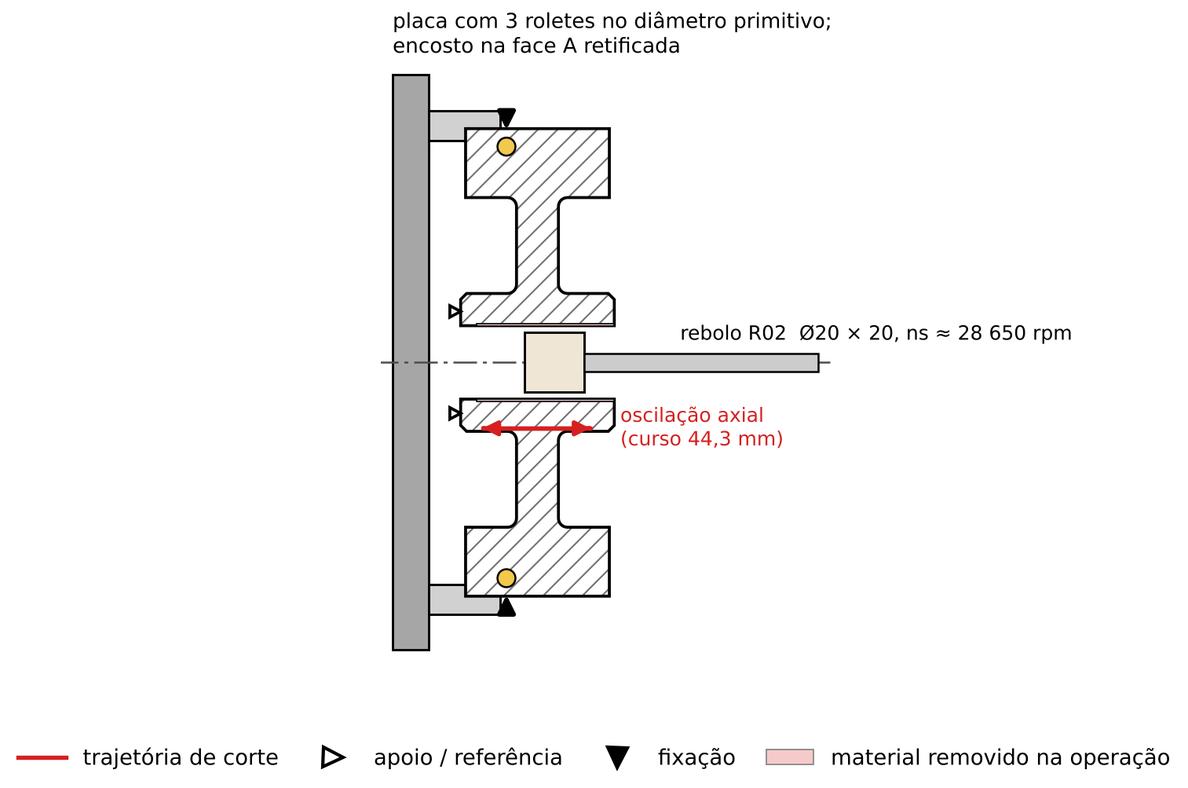
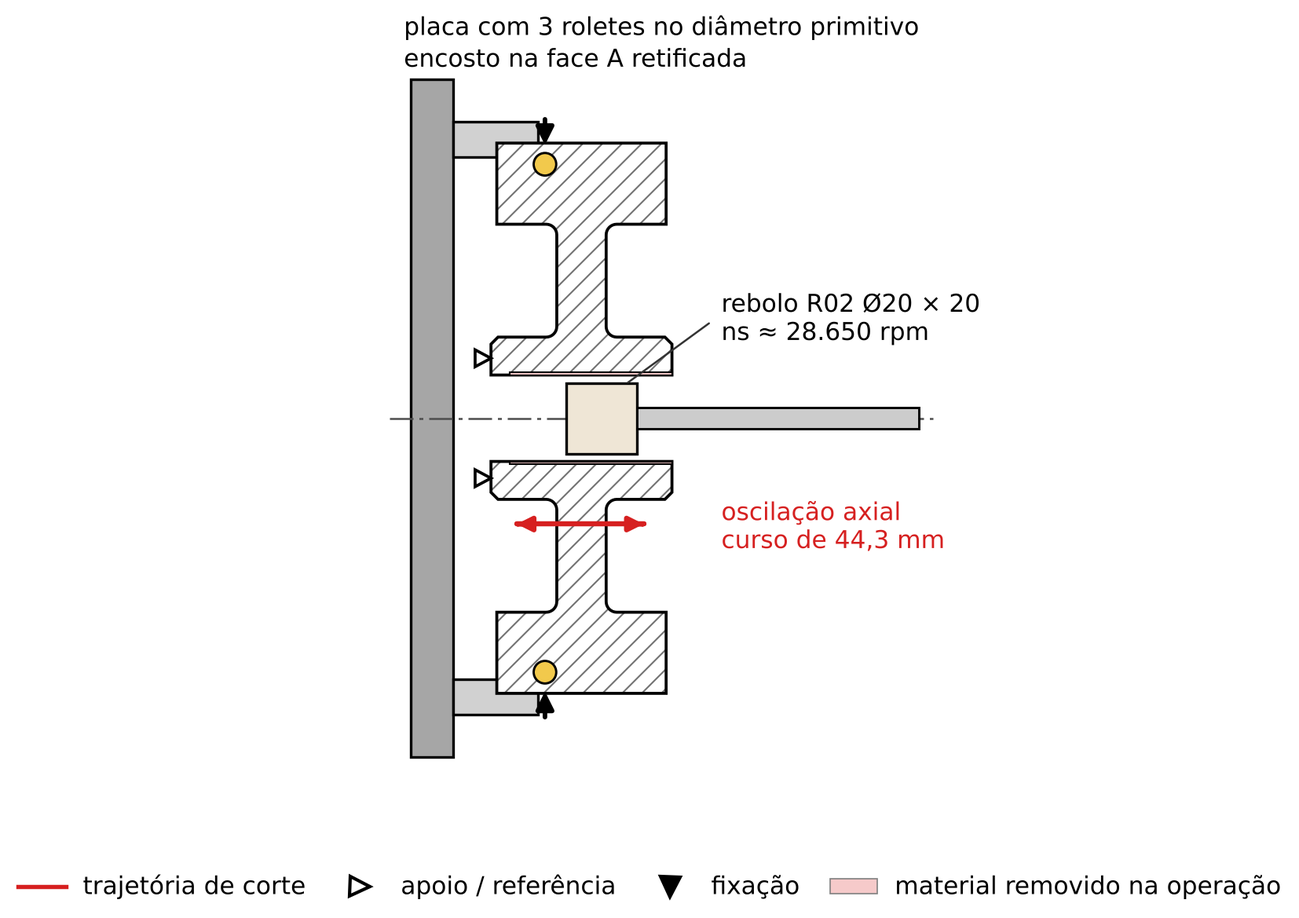
Revisão 3: operações mais sucintas, figuras e margens
- Capítulo 3: descrição das operações reescrita de forma direta; retirada
  a seção de justificativa da ordem; comparação com a fresa caracol
  reescrita, com a origem dos tempos explicada.
- Capítulo 4: critérios e parágrafo da T01 mais curtos.
- Capítulo 5: profundidade do degrau do aro explicada junto dos parâmetros.
- Figuras 2.2, 3.3, 3.5 e 3.7 refeitas; margens simétricas de 2,5 cm.
- Mantidas as edições feitas pelo grupo no Overleaf.

Claude-Session: https://claude.ai/code/session_016G8wJRcTw44iU676wauUBy

Changed region(s): [[0.3106, 0.0, 0.9009, 0.8345], [0.3106, 0.9272, 0.9941, 0.989], [0.0, 0.9581, 0.2796, 0.989]]

diff --git a/capitulos/03_plano_de_trabalho.tex b/capitulos/03_plano_de_trabalho.tex
@@ -2,7 +2,7 @@
 
 \section{Sequência de operações}
 
-O Quadro~\ref{quad:seq} resume a sequência de fabricação da peça. O torneamento, em duas fixações (operações 20 e 30), gera todas as superfícies de revolução, inclusive o furo, que é furado e mandrilado no próprio torno. Depois vêm o fresamento dos dentes, o dos rasgos em arco e o brochamento do rasgo de chaveta, todos com o material ainda recozido. Por fim, a peça é rebarbada, vai para o tratamento térmico e volta para a retificação das faces do cubo e do furo. São cinco processos de usinagem: torneamento, furação, fresamento, brochamento e retificação.
+O Quadro~\ref{quad:seq} resume a sequência. O torneamento, em duas fixações (operações 20 e 30), gera todas as superfícies de revolução, inclusive o furo. Em seguida vêm o fresamento dos dentes, o fresamento dos rasgos em arco e o brochamento do rasgo de chaveta, ainda com o material recozido. Depois da rebarbação e do tratamento térmico, as faces do cubo e o furo são retificados.
 
 \begin{quadro}[H]
 \centering
@@ -26,59 +26,37 @@ O Quadro~\ref{quad:seq} resume a sequência de fabricação da peça. O torneame
 \fonte{Elaborado pelo grupo.}
 \end{quadro}
 
-Para os dentes haviam duas alternativas: fresar com fresa de disco de perfil evolvente em uma fresadora universal ou gerar com fresa caracol em uma fresadora de engrenagens. Ficamos com a fresa de disco, que usa uma máquina comum em ferramentarias e serve bem a lotes pequenos. A fresa caracol, comparada na Seção~\ref{sec:caracol}, seria a escolha para produções com maior volume.
+Três pontos definiram essa ordem. O furo e a face A do cubo são usinados na mesma fixação e servem de referência para todas as operações seguintes. Todo o corte com ferramenta de geometria definida acontece antes do tratamento térmico, já que as ferramentas de aço rápido e de metal duro escolhidas não cortam o aço temperado. E o furo é retificado por último, com a peça centrada pelos dentes, para que fique concêntrico ao dentado.
 
-\section{Justificativa da ordem das operações}
+Para os dentes, a alternativa à fresa de disco seria a fresa caracol, comparada na Seção~\ref{sec:caracol}.
 
-O Quadro~\ref{quad:ordem} explica o motivo da ordem de cada operação selecionada. Dentro do torneamento, todo o desbaste (faceamento, torneamento externo, furação e rebaixo) vem antes do acabamento. Os esforços e o calor do desbaste, então, não deformam nem marcam superfícies já acabadas, e a peça não escorrega nas castanhas depois que as referências foram geradas. O mandrilamento fecha a operação 20: furo e face A do cubo saem da mesma fixação, sem soltar a peça.
+\section{Fixação e croquis}
 
-\begin{quadro}[H]
-\centering
-\caption{Justificativa da posição de cada operação na sequência}\label{quad:ordem}
-{\small\renewcommand{\arraystretch}{1.2}
-\begin{tabular}{|c|>{\raggedright\arraybackslash}p{13.3cm}|}
-\hline
-\rowcolor{cinza} \textbf{Op.} & \textbf{Por que nesta posição} \\ \hline
-20 & Gera as referências do processo (face A do cubo e furo) na mesma fixação. \\ \hline
-30 & Só pode ser feita depois da 20, porque usa o Ø156 já torneado para centrar a peça e a face A para encostá-la. Garante o paralelismo entre as faces do cubo. \\ \hline
-40 & Precisa do furo (mandril) e da face A (encosto). Fica antes do tratamento térmico, pois a fresa de aço rápido não corta o aço temperado. \\ \hline
-50 & Depois da 40, para que a alma ainda esteja inteira, e portanto mais rígida, durante o fresamento dos dentes. Precisa vir antes da 60, porque um dos rasgos orienta a peça no brochamento. \\ \hline
-60 & Depende do furo (bucha-guia) e de um rasgo em arco (orientação). A brocha de aço rápido também exige o material recozido. \\ \hline
-70 & Remove as rebarbas de todas as operações de corte e confere a espessura dos dentes enquanto a peça ainda pode ser corrigida. \\ \hline
-80 & Depois de todo o corte com ferramenta de geometria definida. \\ \hline
-90 & Retifica primeiro as faces do cubo, apoiando uma na outra, para criar uma face A retificada que servirá de encosto na operação 100. \\ \hline
-100 & Por último, com a peça centrada pelo diâmetro primitivo. Corrige a distorção do tratamento térmico e deixa o furo concêntrico ao dentado e perpendicular à face A. \\ \hline
-\end{tabular}}
-\fonte{Elaborado pelo grupo.}
-\end{quadro}
+Na operação 30 a peça é presa pelo Ø156 já torneado, em castanhas moles, com a face A apoiada em um anel de encosto. Nas operações 40, 50 e 60 ela é localizada pelo furo, com mandril ou pino, e pela face A. Na retificação, cada face do cubo é retificada apoiada na outra, e o furo, com a peça centrada pelo diâmetro primitivo.
 
-\section{Referências e fixação}
-
-A face A do cubo e o furo, usinados juntos na operação 20, são as referências de todo o processo. Na operação 30 a peça é presa pelo Ø156 já torneado, em castanhas moles usinadas no próprio torno, e encosta a face A em um anel. Com isso as duas faces do cubo ficam paralelas. Nas operações 40, 50 e 60 a peça é localizada pelo furo (mandril ou pino) e pela face A. Depois do tratamento térmico, cada face do cubo é retificada apoiada na outra. Por último o furo é retificado com a peça centrada pelo diâmetro primitivo, em uma placa com roletes entre os dentes. É assim que o furo final fica concêntrico ao dentado, o requisito funcional mais importante da engrenagem.
-
-Nos croquis, a peça aparece em corte (meia-seção no torneamento), com a seção hachurada e o material removido na operação em vermelho claro. A trajetória de corte está em vermelho contínuo e os movimentos rápidos em vermelho tracejado. Os triângulos marcam apoios e referências, e as setas pretas, a força de fixação. As trajetórias são esquemáticas e foram afastadas um pouco das superfícies para ficarem legíveis.
+Nos croquis, a peça aparece em corte, com o material removido na operação em vermelho claro. A trajetória de corte está em vermelho contínuo e os movimentos rápidos em vermelho tracejado; os triângulos indicam apoios e referências, e as setas pretas, a fixação.
 
 \section{Descrição das operações}
 
 \subsection*{Operação 10 – Inspeção do bruto}
 \addcontentsline{toc}{subsection}{Operação 10 – Inspeção do bruto}
 
-Na bancada, conferem-se o diâmetro (Ø160), o comprimento (58 mm) e a dureza (170 a 200 HB) da barra serrada, com paquímetro e durômetro.
+Conferência do diâmetro (Ø160), do comprimento (58 mm) e da dureza (170 a 200 HB) da barra serrada, na bancada, com paquímetro e durômetro.
 
 \subsection*{Operação 20 – Torneamento do lado A}
 \addcontentsline{toc}{subsection}{Operação 20 – Torneamento do lado A}
 
-A peça é presa pelo diâmetro bruto em placa de três castanhas duras, com 15 mm de peça, no torno CNC ROMI Centur 35D (Figura~\ref{fig:op20}). Todas as etapas usam emulsão de óleo solúvel:
+Torno CNC ROMI Centur 35D, peça presa pelo Ø160 bruto em placa de três castanhas duras, com 15 mm de pega, e emulsão como fluido de corte (Figura~\ref{fig:op20}).
 
 \begin{enumerate}[label=20.\arabic*]
-\item Faceamento de desbaste da face A em dois passes de 1,425 mm, até o centro (T01).
-\item Torneamento externo de desbaste de Ø160 para Ø157, ao longo de 36 mm a partir da face (T01).
-\item Desbaste do degrau do aro em dois passes de 0,825 mm, de Ø157 até Ø47, que formam o ressalto do cubo (T01).
-\item Furação passante com broca de Ø23 mm (T03).
-\item Desbaste do rebaixo da alma, entre Ø46 e Ø110 e com 17 mm de profundidade a partir da face do aro, com ferramenta de canal frontal: oito mergulhos axiais, do diâmetro maior para o menor, com passo radial de 3,77 mm. Os mergulhos deixam 0,3 mm nas paredes e no fundo. Os dois junto às paredes param 3 mm antes do fundo, para não invadir os raios de 3 mm (T05).
-\item Acabamento do contorno externo: Ø156, face do aro, Ø46 com o chanfro de 2 mm e face do cubo, deixando 0,15 mm na face do cubo para a retificação (T02).
-\item Passe de contorno do rebaixo: parede do Ø110, raio R3, fundo, raio R3 e parede do Ø46 (T05).
-\item Mandrilamento do furo para Ø24,5 mm, que deixa 0,25 mm no raio para a retificação interna, e chanfro de 0,5 $\times$ 45° (T04).
+\item Facear a face A em dois passes de 1,425 mm, até o centro (T01).
+\item Tornear de Ø160 para Ø157 em 36 mm de comprimento (T01).
+\item Desbastar o degrau do aro de Ø157 até Ø47, com 1,65 mm de profundidade em dois passes (T01).
+\item Furar Ø23 passante (T03).
+\item Desbastar o rebaixo da alma (Ø46 a Ø110, 17 mm de profundidade) com oito mergulhos axiais, deixando 0,3 mm nas paredes e no fundo (T05).
+\item Acabar o Ø156, a face do aro, o Ø46 com o chanfro de 2 mm e a face do cubo, deixando 0,15 mm na face do cubo para a retificação (T02).
+\item Acabar o contorno do rebaixo: paredes, raios R3 e fundo (T05).
+\item Mandrilar o furo para Ø24,5 e chanfrar 0,5 $\times$ 45° (T04).
 \end{enumerate}
 
 \begin{figure}[H]
@@ -91,16 +69,16 @@ A peça é presa pelo diâmetro bruto em placa de três castanhas duras, com 15 
 \subsection*{Operação 30 – Torneamento do lado B}
 \addcontentsline{toc}{subsection}{Operação 30 – Torneamento do lado B}
 
-A peça é virada e presa pelo Ø156 em castanhas moles usinadas no próprio torno, com a face A do cubo apoiada em um anel de encosto (Figura~\ref{fig:op30}). As etapas repetem as da operação 20, com as mesmas ferramentas e parâmetros:
+Mesmo torno, peça virada e presa pelo Ø156 em castanhas moles, com a face A no anel de encosto (Figura~\ref{fig:op30}). As etapas repetem as da operação 20, com as mesmas ferramentas e parâmetros.
 
 \begin{enumerate}[label=30.\arabic*]
-\item Faceamento de desbaste da face B em dois passes de 1,425 mm, até o furo (T01).
-\item Torneamento externo de desbaste do Ø160 restante, que estava sob as castanhas na operação 20.
-\item Desbaste do degrau do aro do lado B, em dois passes de 0,825 mm (T01).
-\item Desbaste do rebaixo do lado B com oito mergulhos (T05).
-\item Acabamento do contorno externo do lado B, até o comprimento de 51,3 mm no cubo (T02).
-\item Passe de contorno do rebaixo do lado B (T05).
-\item Chanfro de 0,5 $\times$ 45° no furo, lado B (T04).
+\item Facear a face B em dois passes de 1,425 mm, até o furo (T01).
+\item Tornear para Ø157 o trecho de 16 mm que estava sob as castanhas (T01).
+\item Desbastar o degrau do aro do lado B, em dois passes (T01).
+\item Desbastar o rebaixo do lado B com oito mergulhos (T05).
+\item Acabar o contorno externo do lado B, levando o cubo a 51,3 mm (T02).
+\item Acabar o contorno do rebaixo do lado B (T05).
+\item Chanfrar o furo 0,5 $\times$ 45° no lado B (T04).
 \end{enumerate}
 
 \begin{figure}[H]
@@ -113,7 +91,7 @@ A peça é virada e presa pelo Ø156 em castanhas moles usinadas no próprio tor
 \subsection*{Operação 40 – Fresamento dos dentes}
 \addcontentsline{toc}{subsection}{Operação 40 – Fresamento dos dentes}
 
-A peça vai em um mandril de Ø24,5 mm, encostada pela face A e presa por porca, entre o cabeçote divisor e a contraponta da fresadora universal KNUTH UWF 5 (Figura~\ref{fig:op40}). A fresa de disco de módulo 6 nº 4, que serve para engrenagens de 21 a 25 dentes, é centrada no eixo da peça, e cada vão é cortado com a mesa avançando paralela a esse eixo. Primeiro desbastamos todos os vãos com 12,6 mm de profundidade (2,1$\cdot$m, o máximo por passe indicado pelo fabricante da fresa). Depois todos são acabados na profundidade total do perfil, 13,5 mm. Antes de acabar a volta inteira, a profundidade é ajustada pela medida sobre 3 dentes (W\textsubscript{3} = 46,30 mm nominal), descontada a folga desejada com a cremalheira
+Fresadora universal KNUTH UWF 5, peça montada em mandril de Ø24,5 mm entre o cabeçote divisor e a contraponta, encostada pela face A e presa por porca (Figura~\ref{fig:op40}). Com a fresa de disco de módulo 6 nº 4 centrada no eixo da peça, cada vão é cortado com avanço da mesa paralelo a esse eixo. Primeiro todos os vãos são desbastados com 12,6 mm de profundidade; depois são acabados na profundidade total de 13,5 mm, ajustada pela medida sobre 3 dentes (W\textsubscript{3} = 46,30 mm). Entre um vão e outro, o cabeçote divisor gira a peça 15° (1 2/3 volta da manivela). Fluido: óleo integral.
 
 \begin{figure}[H]
 \centering
@@ -125,43 +103,41 @@ A peça vai em um mandril de Ø24,5 mm, encostada pela face A e presa por porca,
 \subsection*{Operação 50 – Fresamento dos rasgos em arco}
 \addcontentsline{toc}{subsection}{Operação 50 – Fresamento dos rasgos em arco}
 
-No centro de usinagem vertical ROMI D 800, a peça é centrada por um pino de Ø24,5 mm, apoiada pela face do cubo em uma placa-base e presa por porca e arruela (Figura~\ref{fig:op50}). A fresa de topo de Ø16 mm entra em rampa de 5° pela linha de centro do rasgo, no R39. O arco de 45° tem só 30,6 mm, e descer 5 mm em rampa de 5° pede 57,2 mm de percurso. Por isso a fresa vai e volta sobre o arco, sempre descendo, até chegar ao nível. São três níveis, de 5, 5 e 4,5 mm; no último a fresa passa 0,5 mm além dos 14 mm da alma. Em cada nível a fresa percorre a linha de centro e depois faz o contorno com 1 mm de penetração lateral, o que deixa o rasgo com 18 mm de largura e extremidades de raio 9 mm. O corte é a seco, com ar comprimido para tirar os cavacos, como se recomenda no fresamento com metal duro (Aula 20).
+Centro de usinagem vertical ROMI D 800, peça centrada por um pino de Ø24,5 mm, apoiada pela face do cubo e presa por porca e arruela (Figura~\ref{fig:op50}). A fresa de topo de Ø16 mm desce em rampa de 5° indo e voltando sobre a linha de centro do rasgo (R39), em três níveis de 5, 5 e 4,5 mm, até atravessar a alma. Em cada nível, um passe de contorno com 1 mm de penetração lateral leva o rasgo à largura de 18 mm, com extremidades de raio 9 mm. Corte a seco, com ar comprimido para retirar os cavacos.
 
 \begin{figure}[H]
 \centering
 \caption{Croqui da operação 50 – fresamento dos rasgos em arco}\label{fig:op50}
 \includegraphics[width=\linewidth]{figuras/croqui_op50.png}
-
-{\small Rampa sobre o arco R39, em ida e volta. Profundidades acumuladas de 5, 10 e 14,5 mm (14 mm de material e 0,5 mm de saída), com contorno em cada nível.\par}
 \fonte{Elaborado pelo grupo.}
 \end{figure}
 
 \subsection*{Operação 60 – Brochamento do rasgo de chaveta}
 \addcontentsline{toc}{subsection}{Operação 60 – Brochamento do rasgo de chaveta}
 
-O rasgo de 8 mm é brochado na brochadeira vertical Nargesa BM25, com a brocha guiada por uma bucha de Ø24,5 mm encaixada no furo (Figura~\ref{fig:op60}). A peça se apoia pela face A em um suporte com um pino que entra em um dos rasgos em arco, o que fixa a posição da chaveta em relação aos rasgos. São três passes: o primeiro só com a brocha e os outros dois com um calço de 1,27 mm a mais em cada, até o fundo do rasgo ficar a 16 mm do eixo do furo (28,5 mm até a parede oposta do furo acabado, na direção da cota). Como essa cota parte do eixo, ela não muda quando o furo é retificado para Ø25. O fluido é óleo integral de alta viscosidade (Aula 20).
+Brochadeira vertical Nargesa BM25, brocha guiada por uma bucha de Ø24,5 mm no furo, peça apoiada pela face A em um suporte com pino que entra em um dos rasgos em arco (Figura~\ref{fig:op60}). O rasgo de 8 mm é feito em três passes, o primeiro sem calço e os outros dois com um calço de 1,27 mm a mais em cada, até o fundo ficar a 16 mm do eixo do furo. Fluido: óleo integral.
 
 \begin{figure}[H]
 \centering
 \caption{Croqui da operação 60 – brochamento do rasgo de chaveta}\label{fig:op60}
-\includegraphics[width=8.2cm]{figuras/croqui_op60.png}
+\includegraphics[width=11cm]{figuras/croqui_op60.png}
 \fonte{Elaborado pelo grupo.}
 \end{figure}
 
 \subsection*{Operação 70 – Rebarbação e inspeção intermediária}
 \addcontentsline{toc}{subsection}{Operação 70 – Rebarbação e inspeção intermediária}
 
-Na bancada, as rebarbas dos dentes, dos rasgos e da chaveta são tiradas com lima, e a espessura dos dentes é conferida pela medida sobre 3 dentes com micrômetro de pratos.
+Remoção das rebarbas dos dentes, dos rasgos e da chaveta com limas, e conferência da espessura dos dentes pela medida sobre 3 dentes, com micrômetro de pratos, na bancada.
 
 \subsection*{Operação 80 – Tratamento térmico}
 \addcontentsline{toc}{subsection}{Operação 80 – Tratamento térmico}
 
-Cementação, têmpera e revenimento.
+Cementação, têmpera e revenimento em fornecedor externo, conforme o Quadro~\ref{quad:espec}.
 
 \subsection*{Operação 90 – Retificação plana das faces do cubo}
 \addcontentsline{toc}{subsection}{Operação 90 – Retificação plana das faces do cubo}
 
-Na retificadora plana KNUTH HFS 3063 F Advance, a peça fica sobre a mesa magnética apoiada em uma face do cubo, e a face oposta é retificada. Depois ela é virada, e a outra face leva o cubo a 51,00 mm (Figura~\ref{fig:op90}). Como o cubo sai além do aro, só as faces do cubo tocam o rebolo. Em cada face são 7 passes de desbaste de 0,02 mm, 2 de acabamento de 0,005 mm e 2 sem penetrar a peça.
+Retificadora plana KNUTH HFS 3063 F Advance, peça na mesa magnética apoiada por uma face do cubo (Figura~\ref{fig:op90}). Retifica-se uma face, a peça é virada e a outra face leva o cubo a 51,00 mm. Em cada face: 7 passes de 0,02 mm, 2 passes de 0,005 mm e 2 passes sem penetração (faiscamento).
 
 \begin{figure}[H]
 \centering
@@ -173,20 +149,24 @@ Na retificadora plana KNUTH HFS 3063 F Advance, a peça fica sobre a mesa magné
 \subsection*{Operação 100 – Retificação interna do furo}
 \addcontentsline{toc}{subsection}{Operação 100 – Retificação interna do furo}
 
-Na retificadora interna STUDER S121, a peça é centrada pelo diâmetro primitivo em uma placa com três roletes calibrados entre os dentes e apoiada na face A já retificada (Figura~\ref{fig:op100}). O furo passa de Ø24,5 para Ø25 H7 com rebolo de Ø20 mm, em retificação de passagem com oscilação axial. Os últimos passes são de faiscamento, sem penetração.
+Retificadora interna STUDER S121, peça centrada pelo diâmetro primitivo em uma placa com três roletes entre os dentes e apoiada na face A retificada (Figura~\ref{fig:op100}). O furo é retificado de Ø24,5 para Ø25 H7 com rebolo de Ø20 mm e oscilação axial, terminando com passes de faiscamento.
 
 \begin{figure}[H]
 \centering
 \caption{Croqui da operação 100 – retificação interna do furo}\label{fig:op100}
-\includegraphics[width=9.5cm]{figuras/croqui_op100.png}
+\includegraphics[width=11cm]{figuras/croqui_op100.png}
 \fonte{Elaborado pelo grupo.}
 \end{figure}
 
 \subsection*{Operação 110 – Inspeção final}
 \addcontentsline{toc}{subsection}{Operação 110 – Inspeção final}
 
-Verificam-se o furo (calibrador tampão Ø25 H7), o comprimento do cubo, a medida sobre 3 dentes, o batimento do dentado em relação ao furo, a dureza superficial e a rugosidade das superfícies retificadas.
+Verificação do furo (calibrador tampão Ø25 H7), do comprimento do cubo, da medida sobre 3 dentes, do batimento do dentado em relação ao furo, da dureza superficial e da rugosidade das superfícies retificadas.
 
 \section{Comparação com a geração por fresa caracol}\label{sec:caracol}
 
-Na fresadora de engrenagens LIEBHERR LC 180, que aceita peças de até 180 mm de diâmetro, uma fresa caracol de Ø100 mm a 120 m/min (382 rpm), com avanço axial de 2,5 mm por volta da peça, cortaria os 24 dentes em cerca de 2,2 min. Com a fresa de disco são 105 min. O perfil gerado pela caracol é exato para qualquer número de dentes; o da fresa de disco nº 4 só é exato para 21 dentes. O módulo 6 está no limite da máquina: a página do produto fala em módulo até 6 mm, mas o folheto da versão $\alpha$ diz 5 mm (LIEBHERR, 2026), e isso teria de ser confirmado com o fabricante. Para um lote pequeno, a fresa caracol e a máquina dedicada não se pagam, e a fresa de disco atende à qualidade adotada para os dentes.
+Existe outra forma de cortar os dentes: a geração com fresa caracol, em uma fresadora de engrenagens. A fresa caracol tem a forma de um parafuso sem-fim com a aresta de corte em perfil de cremalheira. Ela e a peça giram sincronizadas, como se estivessem engrenadas, e a fresa vai gerando todos os dentes ao mesmo tempo enquanto avança ao longo da largura da peça. Com a fresa de disco, ao contrário, cada vão é cortado separadamente, em dois passes, com uma divisão manual entre eles.
+
+Para comparar os tempos, consideramos a fresadora de engrenagens LIEBHERR LC 180, que aceita peças de até 180 mm de diâmetro, com uma fresa caracol de Ø100 mm a 120 m/min (382 rpm). Com uma fresa de uma entrada, a peça gira 1/24 de volta a cada volta da fresa, isto é, a 15,9 rpm. Com avanço axial de 2,5 mm por volta da peça, a fresa avança cerca de 40 mm/min e percorre os 87 mm de largura, entrada e saída em 2,2 min. Na fresa de disco, o avanço da mesa é praticamente o mesmo (39,6 mm/min), mas o percurso se repete 48 vezes (24 vãos, cada um com desbaste e acabamento), o que dá 105 min.
+
+A fresa caracol também gera o perfil evolvente exato para qualquer número de dentes, enquanto a fresa de disco nº 4 tem o perfil calculado para 21 dentes e serve, com um pequeno erro, de 21 a 25. Mesmo assim, ficamos com a fresa de disco. Para um lote de 10 peças, o ganho de tempo não paga uma fresa caracol específica para módulo 6 nem uma máquina dedicada, e a fresa de disco atende à qualidade adotada para os dentes (DIN 3962, qualidade 9 a 10). Há ainda uma dúvida sobre a própria LC 180: a página do produto indica módulo até 6 mm, mas o folheto da versão $\alpha$ indica 5 mm (LIEBHERR, 2026). Em produção seriada, a escolha deveria ser revista.

diff --git a/anexos/croquis.py b/anexos/croquis.py
@@ -277,7 +277,7 @@ def fig_op40():
     ax.plot([-49.65, -1.65], [64.5, 64.5], color=RED, lw=0.6, ls="--", zorder=5)
     note(ax, -60, 67, "vão\n(13,5 mm)", size=5.8, ha="right", color=RED)
     ax.add_patch(Rectangle((-80, -12.25), 104, 24.5, fc="0.85", ec="black", lw=0.7, zorder=4))
-    note(ax, 26, 0, "mandril Ø24,5", size=6)
+    note(ax, 36, 0, "mandril Ø24,5", size=6)
     ax.add_patch(Rectangle((-104, -30), 22, 60, fc="0.6", ec="black", lw=0.7, zorder=4))
     note(ax, -93, -34, "cabeçote divisor\n(relação 40:1)", ha="center", va="top")
     ax.add_patch(Polygon([(24, -6), (24, 6), (33, 0)], closed=True, fc="0.6", ec="black", lw=0.7, zorder=4))
@@ -296,10 +296,8 @@ def fig_op40():
     note(ax, cx + 42, cy + 48, "n = 60 rpm", size=6.2)
     path(ax, [(30, 86), (-85, 86)])
     note(ax, 32, 92, "avanço da mesa\nvf = 39,6 mm/min", size=6, color=RED, va="bottom")
-    path(ax, [(-85, 92), (-85, 172), (30, 172), (30, 92)], rapid=True)
-    note(ax, -28, 175, "retorno rápido e divisão de 15° entre vãos", size=6, color=RED, ha="center", va="bottom")
     axisline(ax, -110, 40)
-    setup(ax, (-110, 62), (-60, 185))
+    setup(ax, (-110, 72), (-60, 170))
     ax = axs[1]
     ax.set_title("(b) vista frontal – vão em usinagem", fontsize=7.2)
     to = tooth_outline()
@@ -317,13 +315,8 @@ def fig_op40():
     vao2 = [(r * math.cos(th + (g - psi(r))), r * math.sin(th + (g - psi(r)))) for r in rs[::-1]]
     ax.add_patch(Polygon(vao + vao2, closed=True, fc=REM, ec=RED, lw=1.0, zorder=5))
     note(ax, -14, 87, "perfil da fresa nº 4\n(21 a 25 dentes)", size=6, color=RED, ha="center", va="bottom")
-    ax.add_patch(Arc((0, 0), 118, 118, theta1=65, theta2=82, color=RED, lw=1.0))
-    ax.annotate("", xy=(59 * math.cos(math.radians(65)), 59 * math.sin(math.radians(65))),
-                xytext=(59 * math.cos(math.radians(68)), 59 * math.sin(math.radians(68))),
-                arrowprops=dict(arrowstyle="-|>", color=RED, lw=1.0, mutation_scale=8))
-    note(ax, 12, 40, "divisão de 15° = 40/24 volta\nda manivela (1 volta + 2/3)", size=5.9, color=RED)
     setup(ax, (-62, 72), (30, 102))
-    legenda(fig, ["corte", "rapido", "apoio", "fixacao", "removido"], y=-0.03)
+    legenda(fig, ["corte", "apoio", "fixacao", "removido"], y=-0.03)
     fig.tight_layout(w_pad=0.3)
     save(fig, "croqui_op40.png")
 
@@ -393,21 +386,27 @@ def fig_op50():
 
 # ------------------------------------------------------------------ operacao 60
 def fig_op60():
-    fig, ax = plt.subplots(figsize=(4.4, 3.9))
+    fig, ax = plt.subplots(figsize=(5.2, 4.0))
     vert_full(ax)
-    ax.add_patch(Rectangle((-90, -51.3 - 8), 180, 8, fc="0.75", ec="black", lw=0.7))
-    note(ax, 0, -62, "suporte da brochadeira, com pino de orientação em um rasgo em arco", ha="center", va="top", size=5.9)
-    ax.add_patch(Rectangle((-12.25, -51.3 - 8), 24.5, 66, fc="0.88", ec="black", lw=0.6, zorder=4))
-    note(ax, -3, -22, "bucha-guia Ø24,5", rot=90, ha="center", size=5.8)
-    ax.add_patch(Rectangle((2.7, -86), 9.52, 118, fc="white", ec=RED, lw=0.9, zorder=5))
-    ax.add_patch(Rectangle((12.25, -51.3), 3.5, 51.3, fc=REM, ec="black", lw=0.5, zorder=6))
-    note(ax, 18, 26, "brocha 8 mm (B01)\n+ calço de 1,27 mm\nnos 2º e 3º passes", size=6, color=RED, va="bottom")
-    path(ax, [(7.5, 44), (7.5, 34)], lw=1.4)
-    note(ax, -20, 40, "3 passes, curso ≈ 341 mm", size=6, color=RED, ha="right")
-    tri(ax, -40, -51.3, "up", s=2.6); tri(ax, 40, -51.3, "up", s=2.6)
-    tri(ax, -12.25, -12, "right", s=2.2)
-    legenda(fig, ["corte", "apoio", "removido"], y=-0.04)
-    setup(ax, (-92, 92), (-88, 60))
+    ax.add_patch(Rectangle((-90, -51.3 - 8), 180, 8, fc="0.75", ec="black", lw=0.8))
+    ax.add_patch(Rectangle((-12.25, -51.3 - 8), 24.5, 66, fc="0.88", ec="black", lw=0.7, zorder=4))
+    ax.add_patch(Rectangle((2.7, -84), 9.52, 116, fc="white", ec=RED, lw=1.1, zorder=5))
+    ax.add_patch(Rectangle((12.25, -51.3), 3.5, 51.3, fc=REM, ec="black", lw=0.6, zorder=6))
+    path(ax, [(7.5, 46), (7.5, 34)], lw=1.6)
+    tri(ax, -40, -51.3, "up", s=3.0); tri(ax, 40, -51.3, "up", s=3.0)
+    tri(ax, -12.25, -12, "right", s=2.6)
+    note(ax, 20, 40, "brocha 8 mm (B01)", size=8, color=RED)
+    note(ax, 20, 30, "3 passes: sem calço, depois\n+1 e +2 calços de 1,27 mm", size=7, color=RED)
+    note(ax, -88, 40, "rasgo de chaveta", size=7.5)
+    ax.annotate("", xy=(13.5, -20), xytext=(-40, 34),
+                arrowprops=dict(arrowstyle="-|>", color="0.2", lw=0.7, mutation_scale=8), zorder=9)
+    note(ax, -88, -68, "suporte com pino de orientação", size=7, va="top")
+    note(ax, 22, -68, "bucha-guia Ø24,5", size=7, va="top")
+    ax.annotate("", xy=(11, -55), xytext=(28, -67),
+                arrowprops=dict(arrowstyle="-", color="0.2", lw=0.6), zorder=9)
+    legenda(fig, ["corte", "apoio", "removido"], y=-0.05)
+    for t in fig.legends: [x.set_fontsize(7.5) for x in t.get_texts()]
+    setup(ax, (-92, 92), (-86, 56))
     save(fig, "croqui_op60.png")
 
 # ------------------------------------------------------------------ operacao 90
@@ -431,26 +430,32 @@ def fig_op90():
 
 # ------------------------------------------------------------------ operacao 100
 def fig_op100():
-    fig, ax = plt.subplots(figsize=(4.8, 3.6))
+    fig, ax = plt.subplots(figsize=(5.2, 4.2))
     prof = final_profile(0.0)
     section(ax, prof); section(ax, mirror(prof))
-    ax.add_patch(Rectangle((-74, -96), 12, 192, fc="0.65", ec="black", lw=0.7))
-    for s in (1, -1):
-        ax.add_patch(Rectangle((-62, s * 74 - (10 if s < 0 else 0)), 24, 10, fc="0.82", ec="black", lw=0.7))
-        ax.add_patch(Circle((-36, s * 72), 3.0, fc="#f2c94c", ec="black", lw=0.6, zorder=6))
-        clamp(ax, -36, s * 75.4, "down" if s > 0 else "up")
-        tri(ax, -51.3, s * 17, "right", s=2.4)
-    note(ax, -74, 101, "placa com 3 roletes no diâmetro primitivo;\nencosto na face A retificada", va="bottom")
-    ax.add_patch(Rectangle((-46, 12.25), 46, 0.25 * 3, fc=REM, ec="black", lw=0.4, zorder=6))
-    ax.add_patch(Rectangle((-46, -12.25 - 0.75), 46, 0.75, fc=REM, ec="black", lw=0.4, zorder=6))
-    ax.add_patch(Rectangle((-30, -10), 20, 20, fc="#efe6d6", ec="black", lw=0.7, zorder=7))
-    ax.add_patch(Rectangle((-10, -3), 78, 6, fc="0.8", ec="black", lw=0.6, zorder=7))
-    note(ax, 22, 6, "rebolo R02  Ø20 × 20, ns ≈ 28 650 rpm", va="bottom", size=6)
-    path(ax, [(-8, -22), (-44, -22)]); path(ax, [(-44, -22), (-8, -22)])
-    note(ax, 2, -22, "oscilação axial\n(curso 44,3 mm)", ha="left", size=6, color=RED)
-    axisline(ax, -80, 72)
+    ax.add_patch(Rectangle((-74, -96), 12, 192, fc="0.65", ec="black", lw=0.8))
+    for s_ in (1, -1):
+        ax.add_patch(Rectangle((-62, s_ * 74 - (10 if s_ < 0 else 0)), 24, 10, fc="0.82", ec="black", lw=0.8))
+        ax.add_patch(Circle((-36, s_ * 72), 3.2, fc="#f2c94c", ec="black", lw=0.7, zorder=6))
+        clamp(ax, -36, s_ * 75.6, "down" if s_ > 0 else "up", L=11)
+        tri(ax, -51.3, s_ * 17, "right", s=3.0)
+    note(ax, -76, 107, "placa com 3 roletes no diâmetro primitivo", size=7.5, va="bottom")
+    note(ax, -76, 98, "encosto na face A retificada", size=7.5, va="bottom")
+    ax.add_patch(Rectangle((-46, 12.25), 46, 0.75, fc=REM, ec="black", lw=0.5, zorder=6))
+    ax.add_patch(Rectangle((-46, -13.0), 46, 0.75, fc=REM, ec="black", lw=0.5, zorder=6))
+    ax.add_patch(Rectangle((-30, -10), 20, 20, fc="#efe6d6", ec="black", lw=0.8, zorder=7))
+    ax.add_patch(Rectangle((-10, -3), 80, 6, fc="0.8", ec="black", lw=0.7, zorder=7))
+    note(ax, 14, 32, "rebolo R02 Ø20 × 20", size=7.5)
+    note(ax, 14, 24, "ns ≈ 28.650 rpm", size=7.5)
+    ax.annotate("", xy=(-14, 9), xytext=(12, 28),
+                arrowprops=dict(arrowstyle="-", color="0.2", lw=0.6), zorder=9)
+    path(ax, [(-8, -30), (-44, -30)], lw=1.5); path(ax, [(-44, -30), (-8, -30)], lw=1.5)
+    note(ax, 14, -27, "oscilação axial", size=7.5, color=RED)
+    note(ax, 14, -35, "curso de 44,3 mm", size=7.5, color=RED)
+    axisline(ax, -80, 74)
     legenda(fig, ["corte", "apoio", "fixacao", "removido"], y=-0.04)
-    setup(ax, (-78, 74), (-100, 118))
+    for t in fig.legends: [x.set_fontsize(7.5) for x in t.get_texts()]
+    setup(ax, (-80, 76), (-100, 116))
     save(fig, "croqui_op100.png")
 
 # ------------------------------------------------------------------ bruto x peca torneada
@@ -462,12 +467,12 @@ def fig_bruto():
     section(ax, prof); section(ax, mirror(prof))
     axisline(ax, -62, 12)
     dim(ax, (-54.65, 88), (3.35, 88), "bruto 58")
-    dim(ax, (-51.3, -88), (0, -88), "cubo torneado 51,3", side=-1.3)
+    dim(ax, (-51.3, -5), (0, -5), "cubo 51,3", side=-1.0, size=6)
     note(ax, 8, 80, "Ø160 (bruto)", size=6)
     note(ax, 8, 70, "Ø156", size=6)
-    note(ax, 8, -14, "furo Ø24,5", size=6)
+    note(ax, 8, -20, "furo Ø24,5", size=6)
     legenda(fig, ["removido"], y=-0.04)
-    setup(ax, (-64, 40), (-100, 100))
+    setup(ax, (-64, 40), (-84, 100))
     save(fig, "fig_bruto_peca.png")
 
 if __name__ == "__main__":

diff --git a/capitulos/04_ferramentas.tex b/capitulos/04_ferramentas.tex
@@ -2,20 +2,20 @@
 
 \section{Critérios de escolha}
 
-Escolhemos as ferramentas em catálogos comerciais na ordem da Aula 10: material da peça e grupo ISO, tipo de operação, geometria da pastilha e do quebra-cavaco, classe do metal duro, porta-ferramenta, dados de corte de partida, ajuste pela potência e pelo torque da máquina e, no acabamento, verificação da rugosidade teórica. Temos então três condições valem para  as ferramentas que foram selecionadas:
+As ferramentas foram escolhidas em catálogos comerciais seguindo o roteiro da Aula 10: grupo ISO do material, tipo de operação, geometria da pastilha, classe, porta-ferramenta e dados de corte, depois ajustados à máquina. Valem para todas as ferramentas as seguintes condições:
 
 \begin{itemize}
-\item \textbf{Material.} O SAE 8620 recozido é do grupo ISO P (cor azul), subgrupo P2.1 da Sandvik Coromant (aço baixa liga recozido, 175 HB), e todas as classes escolhidas são classes P. No torneamento usamos a 4425, metal duro com cobertura CVD (TiCN + Al\textsubscript{2}O\textsubscript{3} + TiN). É uma classe P25, que a Sandvik indica como primeira escolha para tornear aços baixa liga (SANDVIK COROMANT, 2026a). Pela Aula 10, quanto maior o número na escala P, mais tenaz e menos resistente ao desgaste é a classe; a P25 fica no meio, com tenacidade para a casca de laminação e resistência ao desgaste para o acabamento.
-\item \textbf{Versão da ferramenta.} O enunciado fixa porta-ferramenta externo de 25 $\times$ 25 mm e torre dianteira. A Aula 10 (slide 8) mostra ferramenta à direita (R) na torre traseira e à esquerda (L) na torre dianteira, e o exemplo resolvido da mesma aula, com torre dianteira, usa o porta-ferramenta DDJNL 2525M 11 (slide 37). Todos os porta-ferramentas de torneamento, a ferramenta de canal frontal e a barra de mandrilar são, então, da versão L.
-\item \textbf{Fixação na torre.} A torre do ROMI Centur 35D recebe hastes quadradas de 25 $\times$ 25 mm e cilíndricas de Ø32 mm (ROMI, 2022). A broca (haste Ø25) e a barra de mandrilar (haste Ø16) entram com buchas de redução da própria Sandvik Coromant.
+\item \textbf{Material.} O SAE 8620 recozido é do grupo ISO P, subgrupo P2.1 da Sandvik Coromant (aço baixa liga recozido, 175 HB), e todas as classes escolhidas são do grupo P. No torneamento foi usada a 4425, metal duro com cobertura CVD, classe P25, indicada pela Sandvik como primeira escolha para tornear aços baixa liga (SANDVIK COROMANT, 2026a). Na escala P, a P25 fica no meio entre tenacidade e resistência ao desgaste (Aula 10).
+\item \textbf{Versão da ferramenta.} O enunciado fixa porta-ferramenta de 25 $\times$ 25 mm e torre dianteira. Pela Aula 10 (slide 8), a torre dianteira usa ferramenta à esquerda (L), como no exemplo resolvido da mesma aula (DDJNL 2525M 11, slide 37). Por isso os porta-ferramentas de torneamento, a ferramenta de canal frontal e a barra de mandrilar são da versão L.
+\item \textbf{Fixação na torre.} A torre do ROMI Centur 35D recebe hastes quadradas de 25 $\times$ 25 mm e cilíndricas de Ø32 mm (ROMI, 2022). A broca e a barra de mandrilar são montadas com buchas de redução da Sandvik Coromant.
 \end{itemize}
 
-Cada ferramenta é apresentada com a chave do código e o significado de cada campo, o motivo da escolha e os dados de corte de partida do fabricante. O Capítulo~\ref{cap:param} compara esses dados com os valores adotados.
+Para cada ferramenta são apresentados a chave do código, a justificativa da escolha e os dados de corte de partida do fabricante, comparados com os valores adotados no Capítulo~\ref{cap:param}.
 
 % ------------------------------------------------------------------------------------------
 \section{T01 – Faceamento e torneamento externo de desbaste}
 
-Para o faceamento e o desbaste externo escolhemos a pastilha CNMG 12 04 08-PM 4425 no porta-ferramenta PCLNL 2525M 12 (Figura~\ref{fig:chaveT01}). O formato C, rômbico de 80°, com ângulo de posição de 95°, faceia até o centro e torneia o diâmetro externo com a mesma aresta, e ainda deixa o ressalto de 90° do degrau do aro. Negativa e de dupla face, a pastilha tem quatro arestas e uma cunha robusta para a casca de laminação. A ponta de 80° é mais forte que a de 55° e aguenta o avanço de desbaste. A Aula 10 (slide 30) limita esse avanço a f $\leq$ r\textsubscript{$\varepsilon$}/2 = 0,4 mm/volta, então adotamos 0,28 mm/volta.
+Para o faceamento e o desbaste externo foi escolhida a pastilha CNMG 12 04 08-PM 4425 no porta-ferramenta PCLNL 2525M 12 (Figura~\ref{fig:chaveT01}). Com ângulo de posição de 95°, a mesma ferramenta faceia, torneia o diâmetro externo e deixa o ressalto a 90° no degrau do aro. A pastilha negativa de dupla face tem quatro arestas e uma cunha mais resistente, adequada ao desbaste sobre a casca de laminação. O raio de ponta de 0,8 mm admite avanço de até r\textsubscript{$\varepsilon$}/2 = 0,4 mm/volta (Aula 10, slide 30); foi adotado 0,28 mm/volta.
 
 \begin{figure}[H]
 \centering

diff --git a/capitulos/08_tempos.tex b/capitulos/08_tempos.tex
@@ -35,7 +35,7 @@ O tempo total por peça segue a Aula 13 (slide 9):
 
 em que t\textsubscript{s} é o tempo de colocar, fixar e retirar a peça, t\textsubscript{a} o de aproximação, afastamento e troca de ferramentas na torre ou no magazine, t\textsubscript{p} o de preparação da máquina para o lote, Z o número de peças do lote, N\textsubscript{t} o número de trocas de ferramenta por desgaste no lote e t\textsubscript{ft} o tempo de cada troca. Sem cronometragem, estimamos t\textsubscript{s}, t\textsubscript{a} e t\textsubscript{p} para um lote de 10 peças.
 
-Desprezamos o último termo nas ferramentas de metal duro. A troca de uma aresta leva cerca de 1 min e acontece poucas vezes no lote, porque cada ferramenta corta pouco tempo (a que mais corta é a T05, com 2 $\times$ 2,8 min por peça, uns 55 min no lote). Na fresa de disco F01 o termo pesa: ela corta 105 min por peça, cerca de 1.050 min no lote. O fabricante não publica a vida da fresa, então não foi possível calcular o número de reafiações. Na prática, o desgaste de flanco deve ser acompanhado , com uma segunda fresa nº 4 pronta para a troca enquanto a primeira vai para reafiação. O tempo dessas trocas não foi estimado e aumentaria o tempo da operação 40.
+Desprezamos o último termo nas ferramentas de metal duro. A troca de uma aresta leva cerca de 1 min e acontece poucas vezes no lote, porque cada ferramenta corta pouco tempo (a que mais corta é a T05, com 2 $\times$ 2,8 min por peça, uns 55 min no lote). Na fresa de disco F01 o termo pesa: ela corta 105 min por peça, cerca de 1.050 min no lote. O fabricante não publica a vida da fresa, então não foi possível calcular o número de reafiações. Na prática, o desgaste de flanco deve ser acompanhado, com uma segunda fresa nº 4 pronta para a troca enquanto a primeira vai para reafiação. O tempo dessas trocas não foi estimado e aumentaria o tempo da operação 40.
 
 \section{Tempos de corte}
 

diff --git a/capitulos/05_parametros.tex b/capitulos/05_parametros.tex
@@ -103,6 +103,8 @@ Com velocidade de corte constante, a rotação sobe conforme a ferramenta se apr
 \fonte{Elaborado pelo grupo com base em Sandvik Coromant (2026a) e ZPS-FN (2026).}
 \end{table}
 
+No degrau do aro, a profundidade de 1,65 mm vem do sobremetal: a face do aro fica 5,0 mm abaixo da face bruta, e o faceamento (2,85 mm) e o acabamento (0,5 mm) removem o restante. Em um passe só, o degrau usaria toda a potência do torno, por isso é feito em dois passes de 0,825 mm.
+
 No mandrilamento, a velocidade recomendada, de 395 a 465 m/min, pediria mais de 5.000 rpm. Com o limite de 3.000 rpm do torno, ficamos em 231 m/min, o que só alonga um pouco o tempo de corte. No fresamento dos dentes, os 15 m/min recomendados dariam 48 rpm, abaixo da rotação mínima da fresadora (60 rpm). A 60 rpm a velocidade é de 18,8 m/min, entre os valores do fabricante para aços de até 850 N/mm² (15 m/min) e de até 600 N/mm² (20 m/min); o SAE 8620 recozido, com cerca de 175 HB, está entre essas duas classes. No canal dos rasgos a fresa trabalha com a largura toda, a espessura máxima do cavaco é igual ao avanço por dente, e f\textsubscript{z} = 0,10 mm está na faixa do fabricante. No contorno, com 1 mm de penetração lateral, subimos o avanço por dente para 0,20 mm, e a espessura máxima do cavaco (Equação \eqref{eq:hex}) fica em 0,097 mm, também dentro da faixa de 0,08 a 0,2 mm.
 
 \section{Retificação}

diff --git a/main.tex b/main.tex
@@ -6,7 +6,7 @@
 \usepackage[brazil]{babel}
 \usepackage{newtxtext,newtxmath}
 \usepackage{icomma}                 % vírgula decimal em equações
-\usepackage[a4paper,left=3cm,top=3cm,right=2cm,bottom=2cm]{geometry}
+\usepackage[a4paper,left=2.5cm,right=2.5cm,top=2.5cm,bottom=2.5cm]{geometry}
 \usepackage{setspace}
 \usepackage{indentfirst}
 \usepackage{amsmath}
